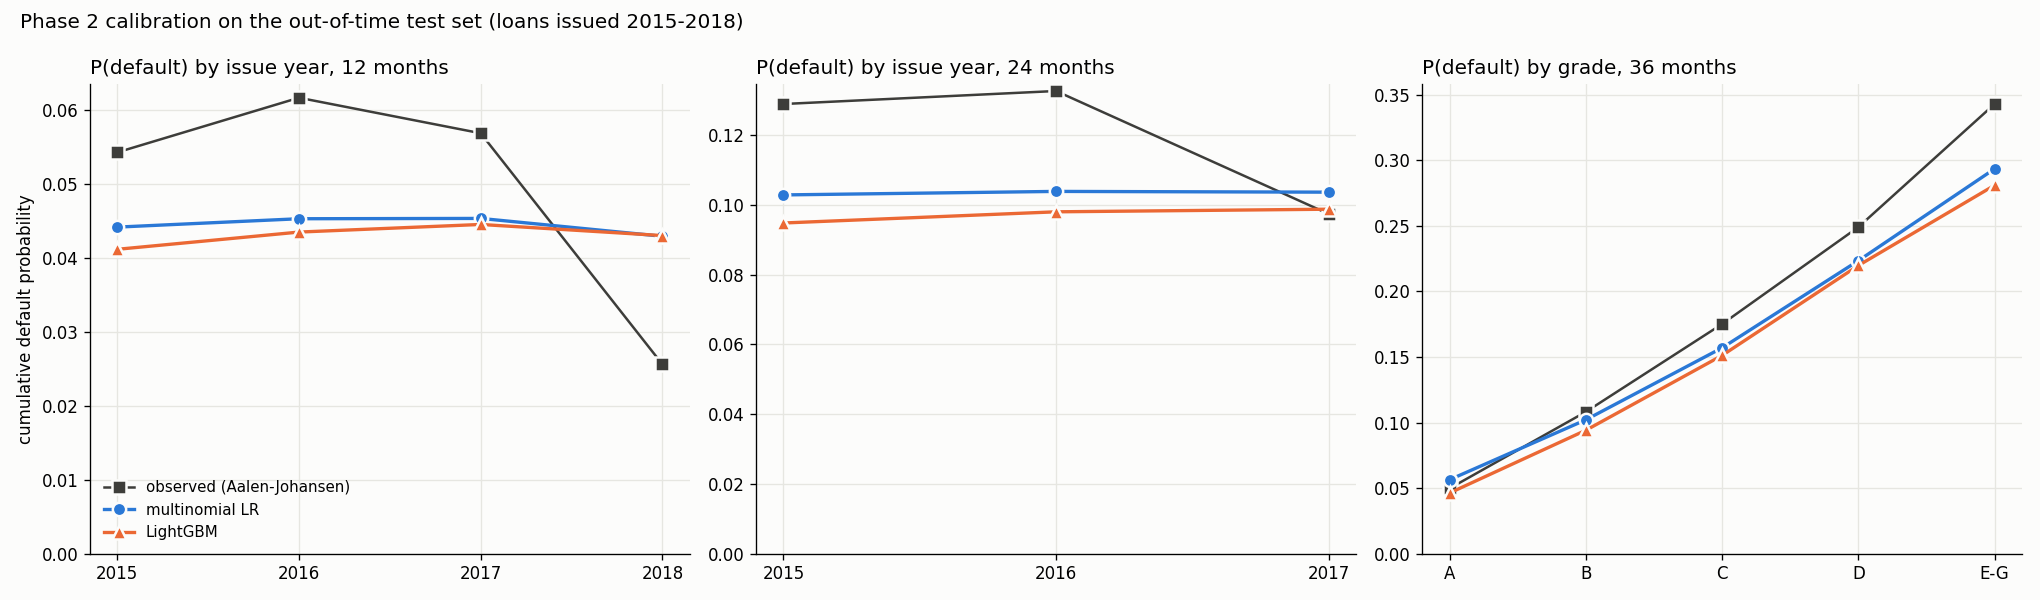
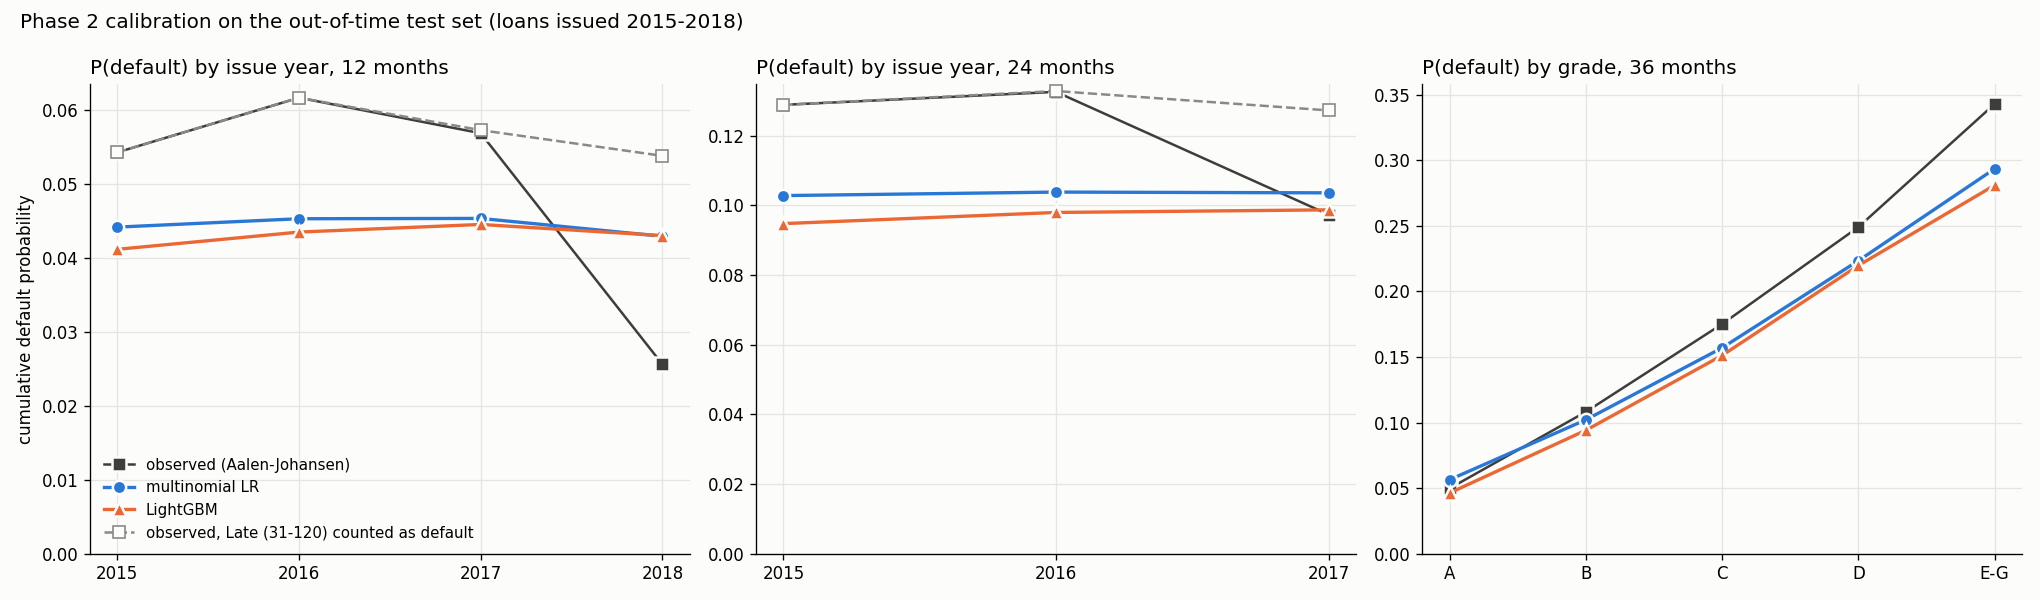
evaluate with arrears counted as default
metrics.json adds calibration by issue year with Late (31-120 days)
loans counted as defaults (192,028 -> 213,134 test defaults). 2018 at
12 months: observed 0.0256 -> 0.0538, LightGBM ratio 1.68 -> 0.80;
2017 at 24 months 1.01 -> 0.78. Under-prediction is consistent across
all cohorts; the recent over-prediction was a recording lag. Existing
metrics unchanged.

diff --git a/src/survival_eval.py b/src/survival_eval.py
@@ -106,7 +106,10 @@ def calibration_table(t: pd.DataFrame, by: pd.Series, horizons) -> pd.DataFrame:
     return pd.DataFrame(rows)
 
 
-def plot_calibration(by_year: pd.DataFrame, by_grade: pd.DataFrame, path) -> None:
+def plot_calibration(by_year: pd.DataFrame, by_grade: pd.DataFrame, path,
+                     by_year_alt: pd.DataFrame | None = None) -> None:
+    """`by_year_alt`: the same table with Late (31-120 days) loans counted as
+    defaults; drawn as a second, dashed "observed" line on the year panels."""
     import matplotlib
     matplotlib.use("Agg")
     import matplotlib.pyplot as plt
@@ -124,6 +127,11 @@ def plot_calibration(by_year: pd.DataFrame, by_grade: pd.DataFrame, path) -> Non
         for key, col in (("observed", "observed"), ("lr", "pred_lr"), ("lgbm", "pred_lgbm")):
             ax.plot(x, d[col], marker=markers[key], markersize=8, lw=2 if key != "observed" else 1.5,
                     color=colors[key], label=labels[key], markeredgecolor="#fcfcfb", markeredgewidth=1.5)
+        if by_year_alt is not None and tbl is by_year:
+            alt = by_year_alt[by_year_alt["horizon"] == h].set_index("group")["observed"]
+            ax.plot(x, alt.reindex(d["group"]).to_numpy(), marker="s", markersize=7, lw=1.5, ls="--",
+                    color="#8a8a85", markerfacecolor="#fcfcfb",
+                    label="observed, Late (31-120) counted as default")
         ax.set_xticks(x); ax.set_xticklabels(d["group"])
         ax.set_title(f"P(default) {title}", loc="left")
         ax.set_facecolor("#fcfcfb"); ax.grid(color="#e6e6e1", lw=0.8); ax.set_axisbelow(True)
@@ -253,7 +261,21 @@ def main() -> None:
     metrics["calibration_by_grade"] = by_grade.to_dict(orient="records")
     recent = by_year[by_year["group"].astype(int).isin(RECENT_YEARS) & by_year["observed"].notna()]
     metrics["recent_cohorts_2016_2018"] = recent.to_dict(orient="records")
-    plot_calibration(by_year, by_grade, FIG / "survival_calibration.png")
+
+    # Sensitivity: Late (31-120 days) loans at the snapshot counted as defaults
+    _, alt = load_survival_data(arrears_as_default=True)
+    alt.index = alt.index.astype(str)
+    t_alt = t.copy()
+    t_alt[["duration", "event", "finished"]] = alt.loc[t.index, ["duration", "event", "finished"]].to_numpy()
+    t_alt = t_alt.astype({"duration": int, "event": int, "finished": bool})
+    del alt
+    by_year_alt = calibration_table(t_alt, year, horizons=(12, 24, 36))
+    metrics["calibration_by_issue_year_arrears_as_default"] = by_year_alt.to_dict(orient="records")
+    metrics["n_test_events_arrears_as_default"] = {
+        "default": int((t_alt["event"] == EVENT_DEFAULT).sum()),
+        "default_standard": int((t["event"] == EVENT_DEFAULT).sum()),
+    }
+    plot_calibration(by_year, by_grade, FIG / "survival_calibration.png", by_year_alt=by_year_alt)
 
     features, _ = load_survival_data()
     features = engineer_features(features)
